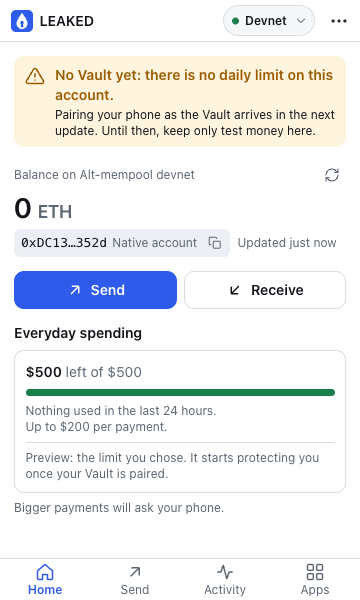
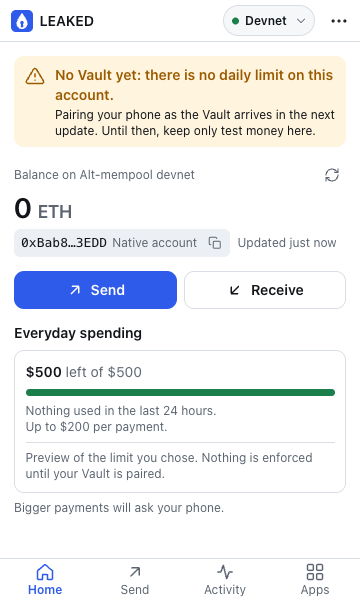
fix(extension): copy and a11y fixes from the UX review, screenshots retaken
- One word for "later": "update" everywhere (the badge, stubs and the limit
  note said "milestone", Home said "update").
- Vocabulary: "everyday key" on the Done screen (not "everyday account");
  the meter's preview note states that nothing is enforced yet.
- Receive sheet: the Copy button confirms with "Copied" and a live region.
- Popup header is the page's h1; Settings footer no longer says "M0".
- Screenshots re-captured from the e2e build (approval window now shows the
  footer on screen and the armed Connect button).

Changed region(s): [[0.1222, 0.75, 0.8861, 0.81], [0.0917, 0.39, 0.1833, 0.42], [0.2444, 0.39, 0.3056, 0.42]]

diff --git a/apps/extension/src/pages/popup/Home.tsx b/apps/extension/src/pages/popup/Home.tsx
@@ -4,6 +4,7 @@ import type { WalletState } from "../../shared/types";
 import {
   AddressChip,
   Button,
+  CheckIcon,
   LimitMeter,
   ReceiveIcon,
   RefreshIcon,
@@ -23,6 +24,7 @@ export function Home({ state, onSend, onOpenApp }: { state: WalletState; onSend:
   const balance = useAsync(() => call("wallet:balance", { chainId }), [chainId, account]);
   const bucket = useAsync(() => call("wallet:bucket"), [chainId, state.setup.dailyLimitUsd, state.setup.perPaymentUsd]);
   const [receiveOpen, setReceiveOpen] = useState(false);
+  const [copied, setCopied] = useState(false);
 
   return (
     <div className="flex flex-col gap-4 p-4">
@@ -102,7 +104,7 @@ export function Home({ state, onSend, onOpenApp }: { state: WalletState; onSend:
               : {})}
             previewNote={
               bucket.data.source === "placeholder"
-                ? "Preview: the limit you chose. It starts protecting you once your Vault is paired."
+                ? "Preview of the limit you chose. Nothing is enforced until your Vault is paired."
                 : undefined
             }
           />
@@ -123,10 +125,22 @@ export function Home({ state, onSend, onOpenApp }: { state: WalletState; onSend:
           <Button variant="secondary" block onClick={() => setReceiveOpen(false)}>
             Close
           </Button>
-          <Button block onClick={() => void navigator.clipboard?.writeText(account)}>
-            Copy address
+          <Button
+            block
+            icon={copied ? <CheckIcon size={16} /> : undefined}
+            onClick={() => {
+              void navigator.clipboard?.writeText(account).then(() => {
+                setCopied(true);
+                setTimeout(() => setCopied(false), 1500);
+              });
+            }}
+          >
+            {copied ? "Copied" : "Copy address"}
           </Button>
         </div>
+        <p className="sr-only" aria-live="polite">
+          {copied ? "Address copied" : ""}
+        </p>
       </Sheet>
     </div>
   );

diff --git a/apps/extension/e2e/screenshots.ts b/apps/extension/e2e/screenshots.ts
@@ -48,7 +48,8 @@ test("screens", async ({ context, extensionId, dappUrl }) => {
   await dapp.getByRole("button", { name: "Connect LEAKED" }).click();
   const approval = await waitForApproval(context);
   await approval.setViewportSize({ width: 360, height: 600 });
-  await expect(approval.getByRole("button", { name: "Connect" })).toBeVisible();
+  // Connect is disabled for a short arming period after the window opens (click-timing guard); capture it armed.
+  await expect(approval.getByRole("button", { name: "Connect" })).toBeEnabled();
   await shot("approve-connect", approval);
   await approval.emulateMedia({ colorScheme: "dark" });
   await shot("approve-connect-dark", approval);

diff --git a/apps/extension/src/pages/common/EmptyState.tsx b/apps/extension/src/pages/common/EmptyState.tsx
@@ -21,8 +21,8 @@ export function EmptyState({
   );
 }
 
-/** "Coming in the next milestone": used wherever M0 shows a later feature, so nothing pretends to work. */
-export function SoonBadge({ children = "Coming in the next milestone" }: { children?: ReactNode }) {
+/** "Coming in the next update": used wherever M0 shows a later feature, so nothing pretends to work. */
+export function SoonBadge({ children = "Coming in the next update" }: { children?: ReactNode }) {
   return (
     <span className="t-small inline-flex items-center rounded-full bg-vault-bg px-2 py-0.5 font-semibold text-vault">
       {children}

diff --git a/apps/extension/src/pages/popup/Settings.tsx b/apps/extension/src/pages/popup/Settings.tsx
@@ -80,7 +80,7 @@ export function SettingsScreen({ state, onBack }: { state: WalletState; onBack: 
             Reset this browser
           </Button>
         </section>
-        <p className="t-small text-center text-muted">LEAKED M0 preview</p>
+        <p className="t-small text-center text-muted">LEAKED preview build · test money only</p>
       </div>
       <ResetSheet open={resetOpen} onClose={() => setResetOpen(false)} />
     </div>
